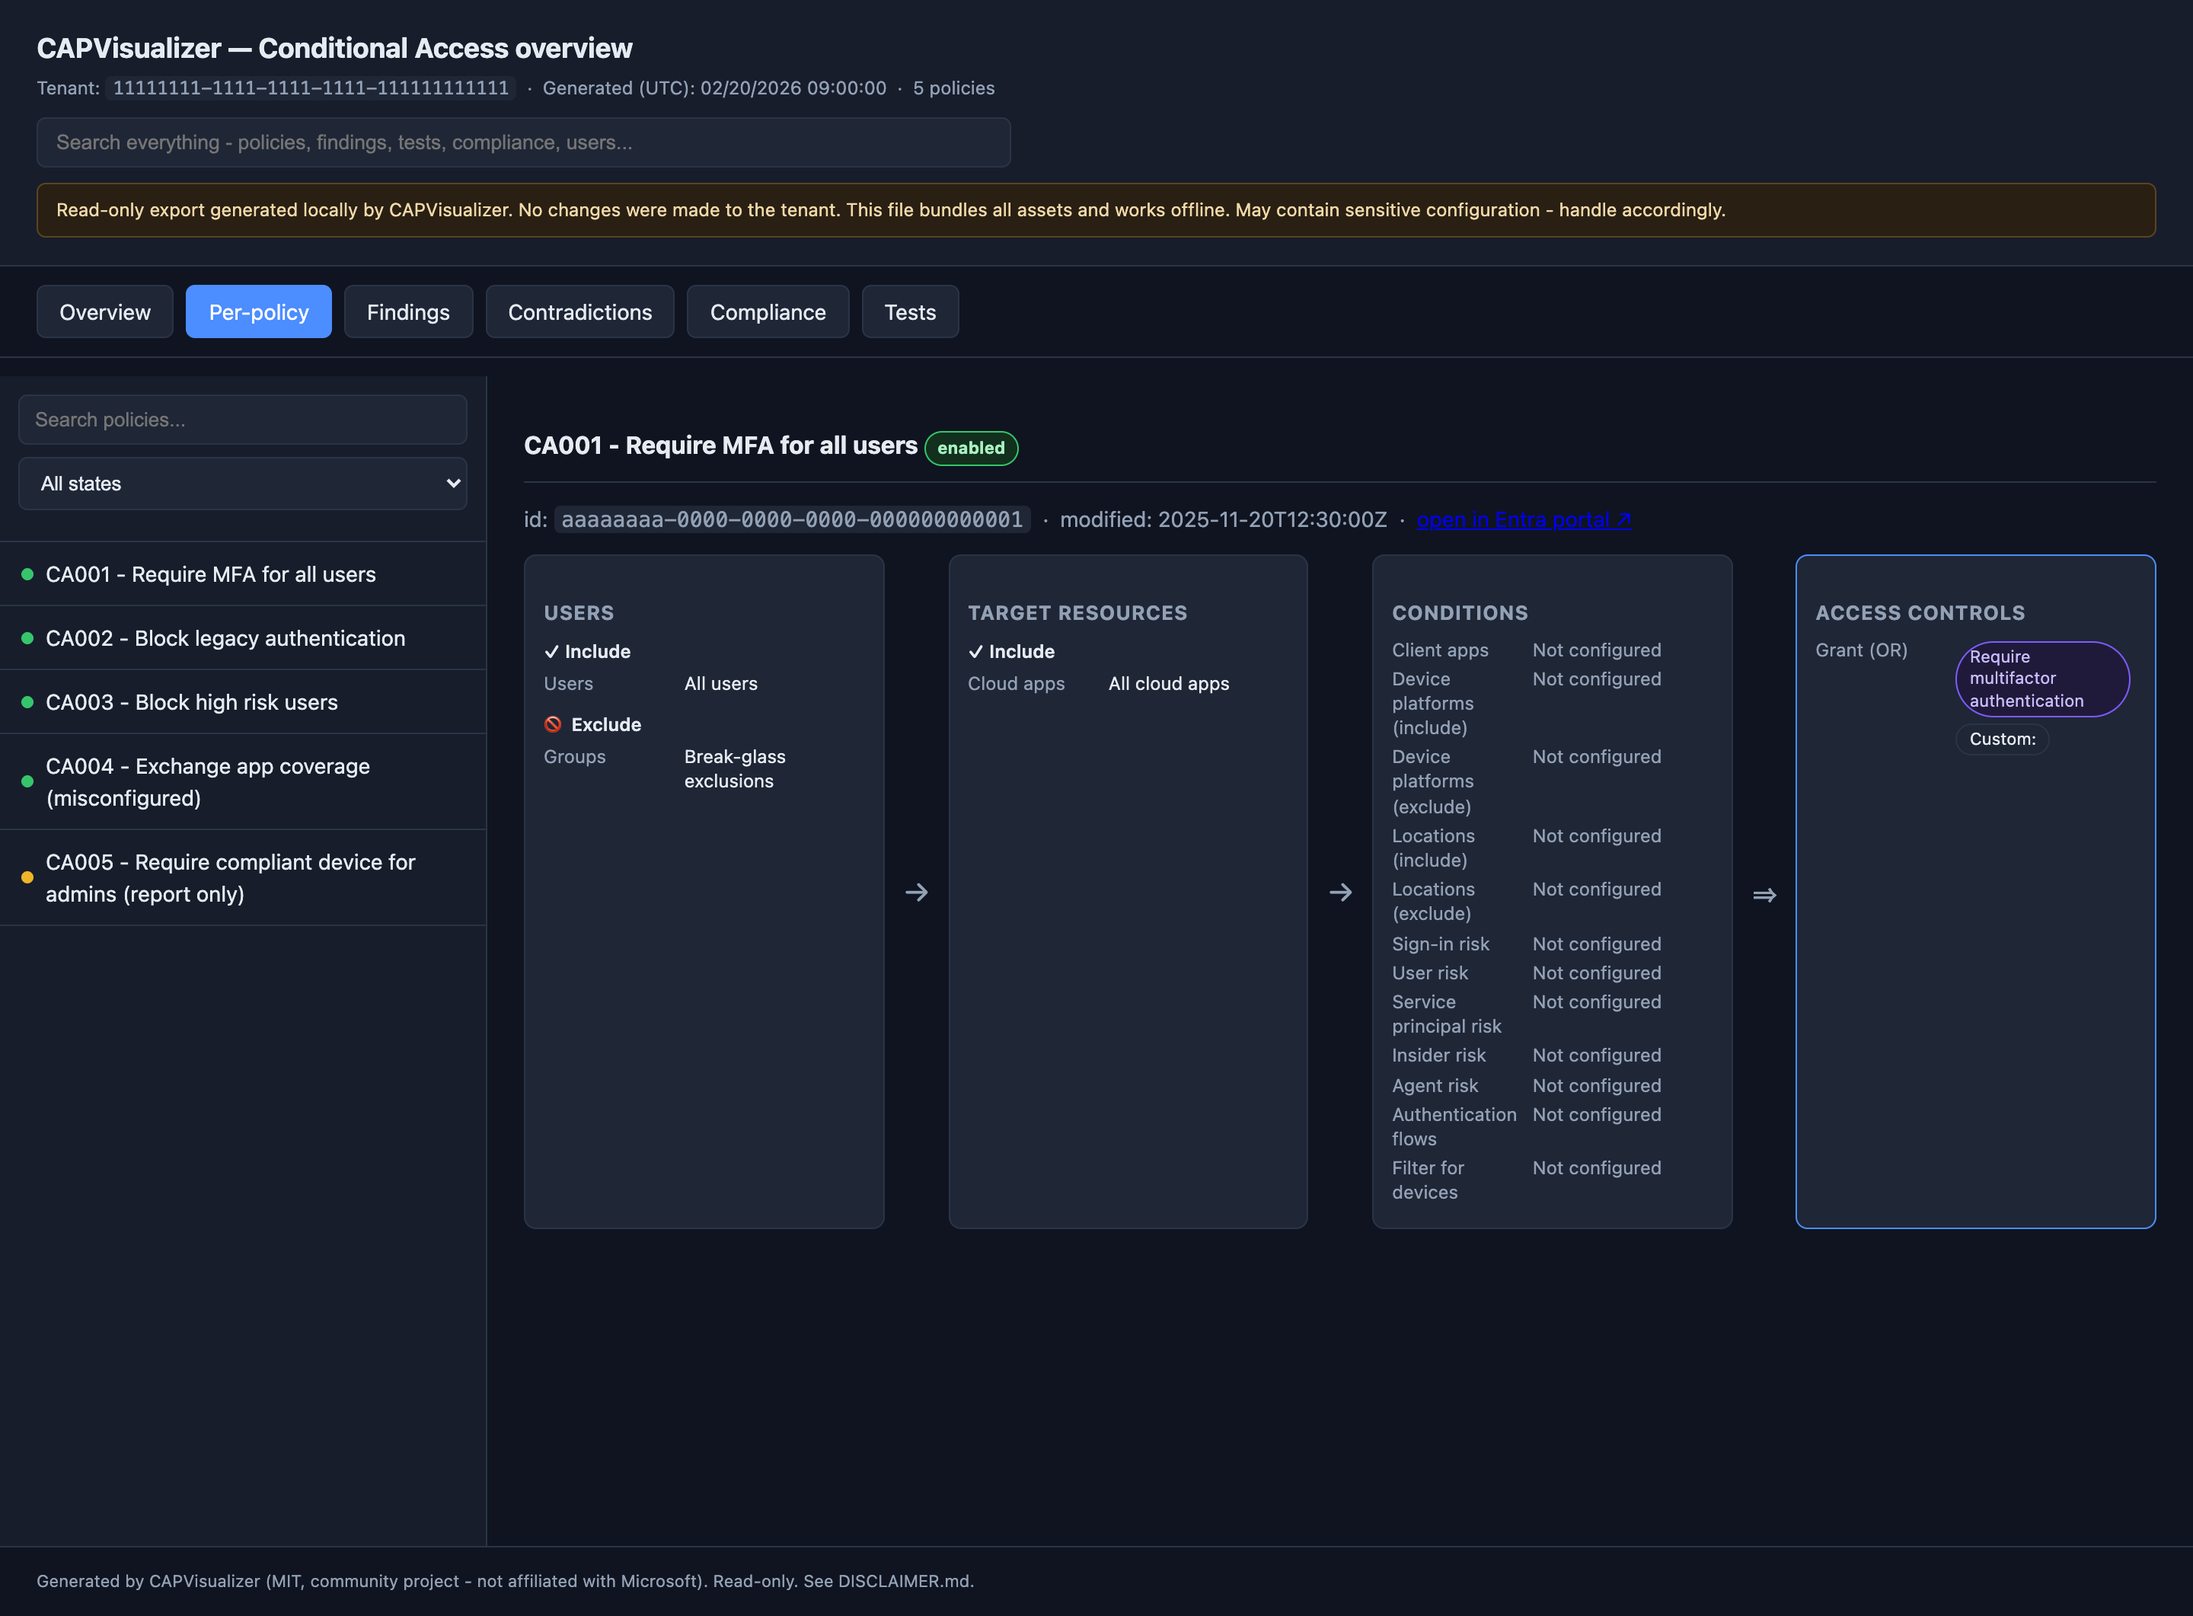
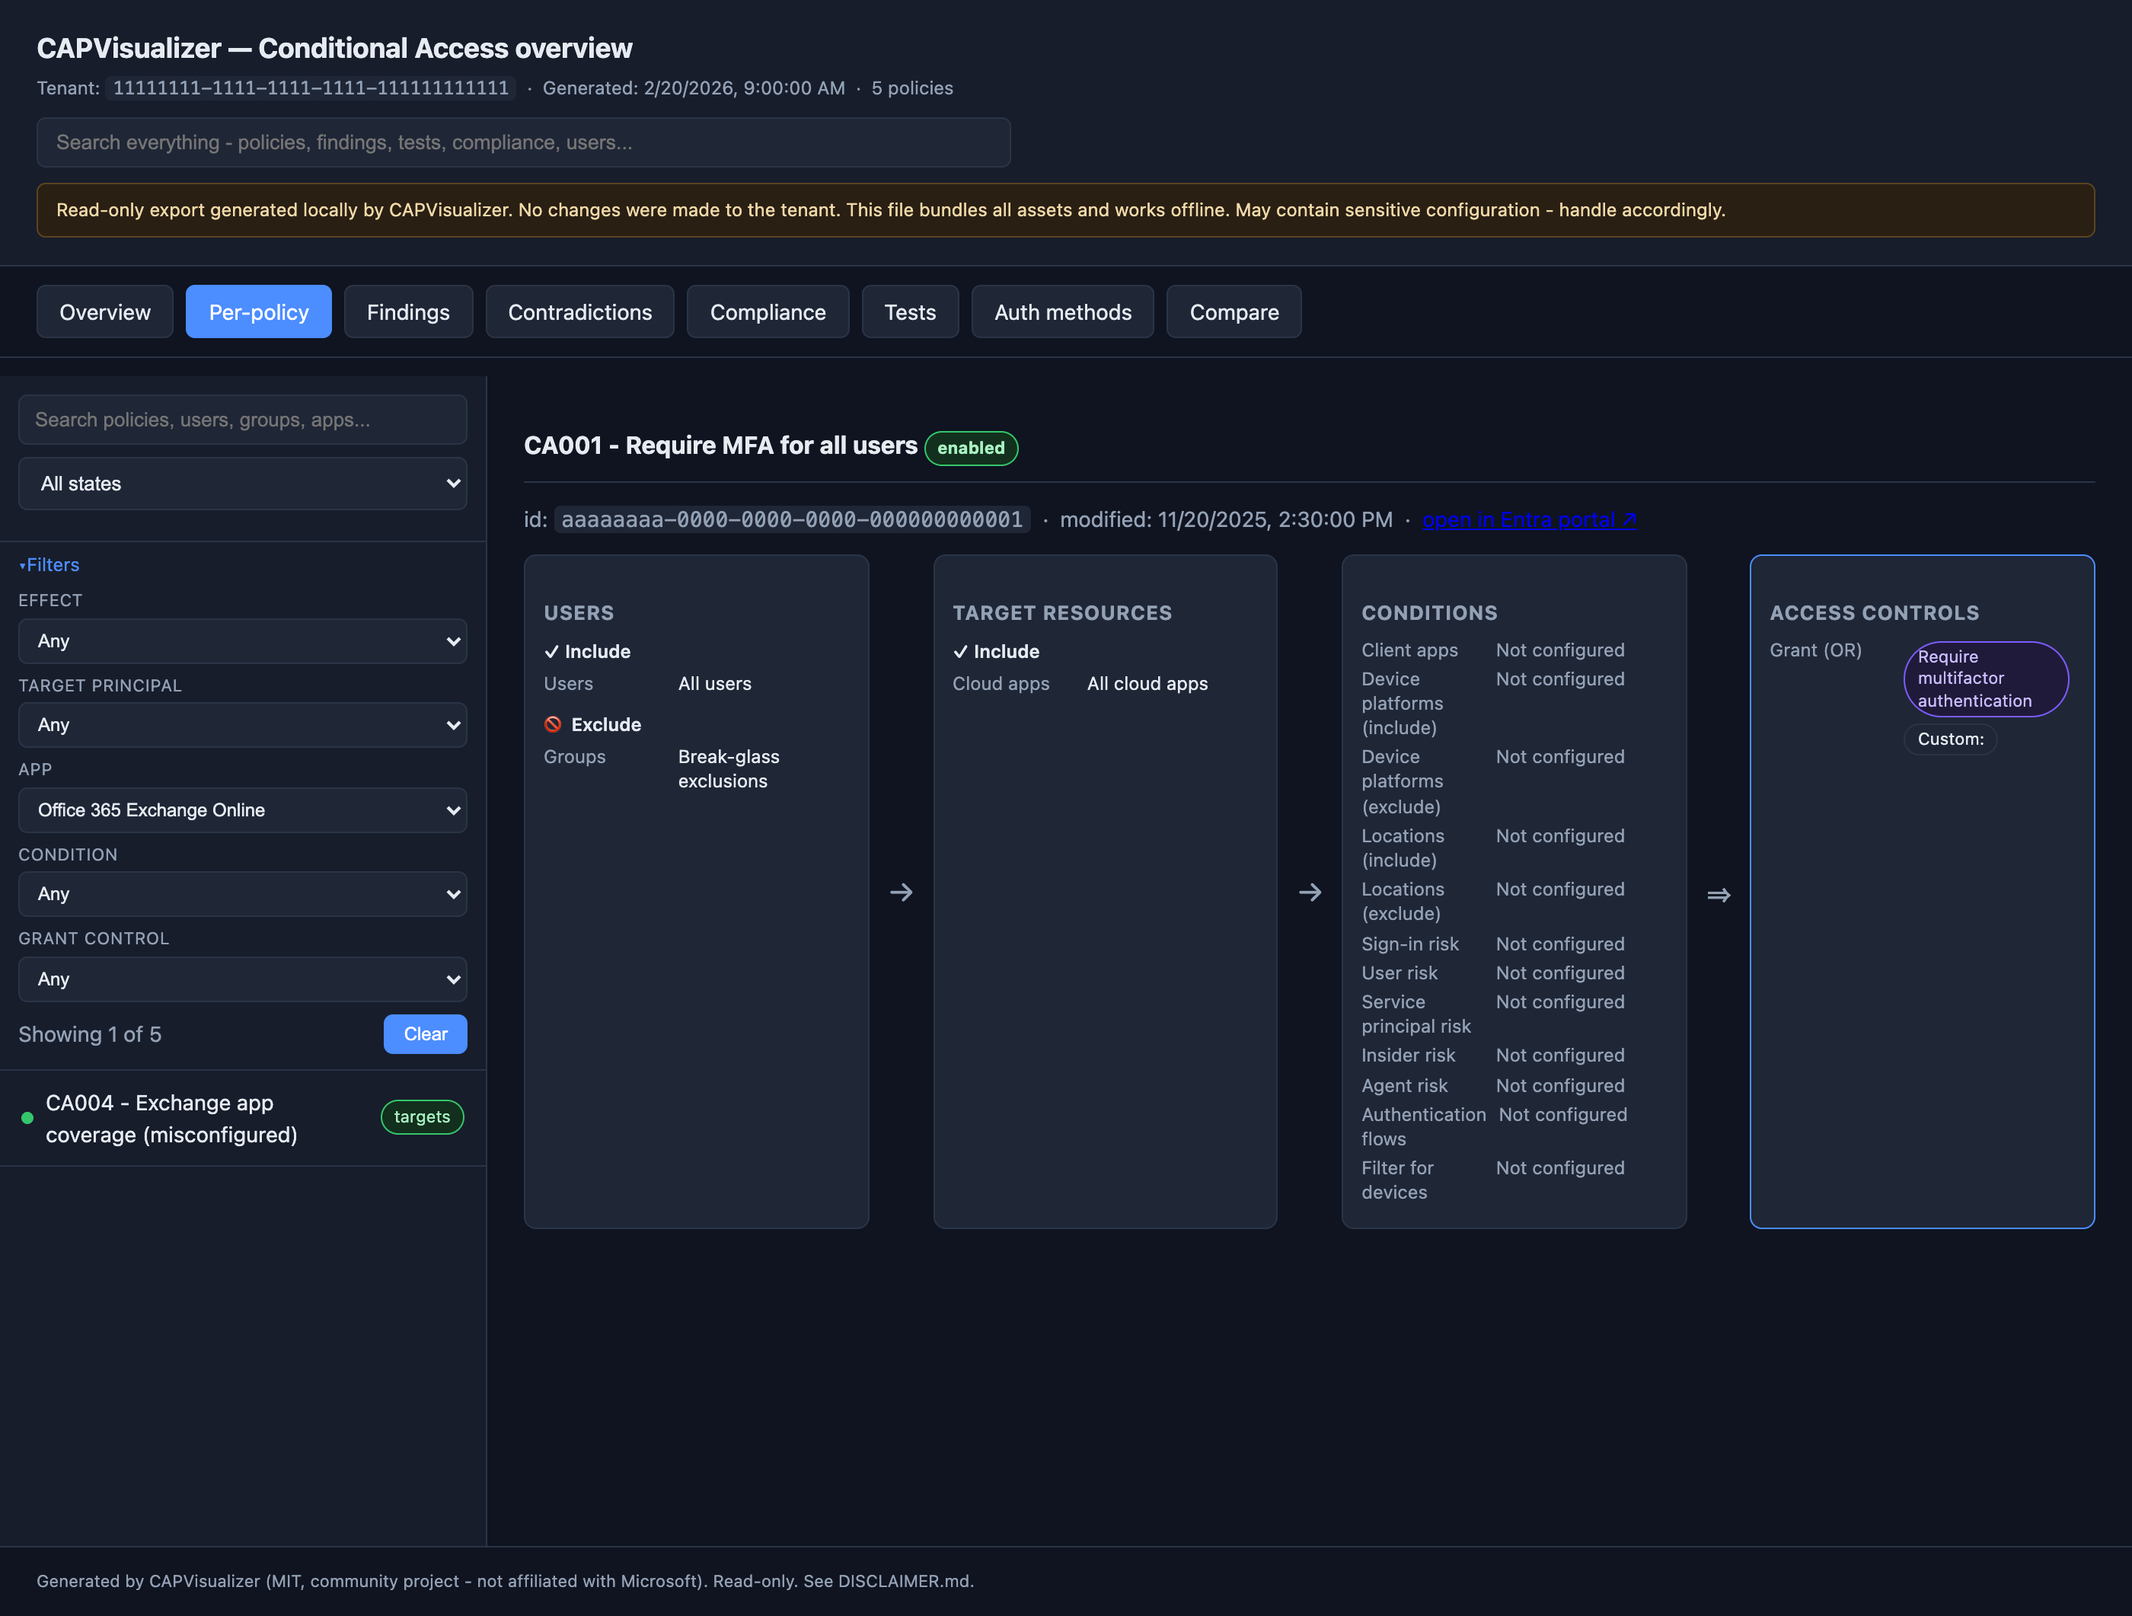
Add faceted policy filtering to the Per-policy view
Larger assessments can now slice the policy set from the Per-policy sidebar. A
collapsible filter panel adds facets on top of the existing text/state search:

- Effect (block / grant)
- Target principal (any referenced user, group, or directory role)
- App (any referenced cloud app)
- Condition present (location, device platform, risk, device filter, legacy-auth)
- Grant control (mfa, compliant device, block, authentication strength, etc)

Facet option lists are built from the loaded policies. Filters combine with AND
and show a live "Showing N of M" count with a Clear button. The text search now
also matches referenced principal and app names. Object filters match both
include and exclude, and each matching list item is badged targets or excluded.

Viewer-only change (all data already embedded per policy); fully offline, no new
scopes. Verified in a headless browser across every facet.

diff --git a/assets/app.js b/assets/app.js
@@ -5,6 +5,7 @@
   function arr(v) { return Array.isArray(v) ? v : (v === null || v === undefined || v === "" ? [] : [v]); }
   var policies = arr(DATA.policies);
   var selected = null;
+  var pfilter = { effect: "all", principal: "all", app: "all", cond: "all", grant: "all" };
   var NAMES = DATA.nameMap || {};
   // Resolve a directory GUID (or "type:guid" pair) to a friendly name when known.
   function nm(v) {
@@ -77,20 +78,134 @@
     return s;
   }
 
+  // ---- Per-policy faceted filtering ----------------------------------------
+  var PRINC_MAP = {
+    User: ["includeUsers", "excludeUsers"],
+    Group: ["includeGroups", "excludeGroups"],
+    Role: ["includeRoles", "excludeRoles"]
+  };
+  var SEP = "\u0000";
+  function princRefs(p, type, side) { return arr(p[PRINC_MAP[type][side === "inc" ? 0 : 1]]); }
+  function princAll(p, side) {
+    return princRefs(p, "User", side).concat(princRefs(p, "Group", side), princRefs(p, "Role", side));
+  }
+  function condMatch(p, c) {
+    if (c === "location") return !!(arr(p.includeLocations).length || arr(p.excludeLocations).length);
+    if (c === "platform") return !!(arr(p.includePlatforms).length || arr(p.excludePlatforms).length);
+    if (c === "risk") return !!(arr(p.signInRiskLevels).length || arr(p.userRiskLevels).length);
+    if (c === "devicefilter") return !!(p.deviceFilter && String(p.deviceFilter).length);
+    if (c === "legacy") return arr(p.clientAppTypes).some(function (x) { return /Exchange ActiveSync|Other legacy/i.test(x); });
+    return true;
+  }
+  function policyMatches(p, ft) {
+    if (pfilter.effect === "block" && !p.isBlock) return false;
+    if (pfilter.effect === "grant" && p.isBlock) return false;
+    if (pfilter.principal !== "all") {
+      var parts = pfilter.principal.split(SEP), type = parts[0], name = parts[1];
+      if (princRefs(p, type, "inc").indexOf(name) === -1 && princRefs(p, type, "exc").indexOf(name) === -1) return false;
+    }
+    if (pfilter.app !== "all") {
+      if (arr(p.includeApplications).indexOf(pfilter.app) === -1 && arr(p.excludeApplications).indexOf(pfilter.app) === -1) return false;
+    }
+    if (pfilter.cond !== "all" && !condMatch(p, pfilter.cond)) return false;
+    if (pfilter.grant !== "all") {
+      var has = arr(p.grantControlLabels).indexOf(pfilter.grant) !== -1 ||
+        (pfilter.grant === "Authentication strength" && !!p.authenticationStrength);
+      if (!has) return false;
+    }
+    if (ft) {
+      var hay = (p.displayName || "") + " " + princAll(p, "inc").join(" ") + " " + princAll(p, "exc").join(" ") +
+        " " + arr(p.includeApplications).join(" ") + " " + arr(p.excludeApplications).join(" ");
+      if (hay.toLowerCase().indexOf(ft) === -1) return false;
+    }
+    return true;
+  }
+  function matchBadge(p) {
+    var b = {};
+    if (pfilter.principal !== "all") {
+      var parts = pfilter.principal.split(SEP), type = parts[0], name = parts[1];
+      if (princRefs(p, type, "inc").indexOf(name) !== -1) b.targets = 1;
+      if (princRefs(p, type, "exc").indexOf(name) !== -1) b.excluded = 1;
+    }
+    if (pfilter.app !== "all") {
+      if (arr(p.includeApplications).indexOf(pfilter.app) !== -1) b.targets = 1;
+      if (arr(p.excludeApplications).indexOf(pfilter.app) !== -1) b.excluded = 1;
+    }
+    var out = "";
+    if (b.targets) out += ' <span class="pill ok mbadge">targets</span>';
+    if (b.excluded) out += ' <span class="pill block mbadge">excluded</span>';
+    return out;
+  }
+
+  function populateFacets() {
+    var princ = {}, apps = {}, grants = {};
+    policies.forEach(function (p) {
+      ["User", "Group", "Role"].forEach(function (type) {
+        princRefs(p, type, "inc").concat(princRefs(p, type, "exc")).forEach(function (n) {
+          if (n) princ[type + SEP + n] = { type: type, name: n };
+        });
+      });
+      arr(p.includeApplications).concat(arr(p.excludeApplications)).forEach(function (n) { if (n) apps[n] = 1; });
+      arr(p.grantControlLabels).forEach(function (l) { if (l) grants[l] = 1; });
+      if (p.authenticationStrength) grants["Authentication strength"] = 1;
+    });
+    var psel = el("fprincipal");
+    if (psel) {
+      var pkeys = Object.keys(princ).sort(function (a, b) {
+        var x = princ[a], y = princ[b];
+        if (x.type !== y.type) return x.type < y.type ? -1 : 1;
+        return x.name.toLowerCase() < y.name.toLowerCase() ? -1 : 1;
+      });
+      pkeys.forEach(function (k) {
+        var o = document.createElement("option");
+        o.value = k; o.textContent = princ[k].type + ": " + nm(princ[k].name);
+        psel.appendChild(o);
+      });
+    }
+    var asel = el("fapp");
+    if (asel) {
+      Object.keys(apps).sort(function (a, b) { return String(nm(a)).toLowerCase() < String(nm(b)).toLowerCase() ? -1 : 1; })
+        .forEach(function (n) { var o = document.createElement("option"); o.value = n; o.textContent = nm(n); asel.appendChild(o); });
+    }
+    var gsel = el("fgrant");
+    if (gsel) {
+      Object.keys(grants).sort().forEach(function (g) {
+        var o = document.createElement("option"); o.value = g; o.textContent = g; gsel.appendChild(o);
+      });
+    }
+  }
+
+  function clearFilters() {
+    pfilter = { effect: "all", principal: "all", app: "all", cond: "all", grant: "all" };
+    ["feffect", "fprincipal", "fapp", "fcond", "fgrant", "fstate"].forEach(function (id) { if (el(id)) el(id).value = "all"; });
+    if (el("q")) el("q").value = "";
+    renderList("", "all");
+  }
+
   function renderList(filterText, filterState) {
     var ul = el("plist");
     ul.innerHTML = "";
     var ft = (filterText || "").toLowerCase();
+    var shown = 0;
     policies.forEach(function (p, i) {
       if (filterState && filterState !== "all" && p.state !== filterState) return;
-      if (ft && (p.displayName || "").toLowerCase().indexOf(ft) === -1) return;
+      if (!policyMatches(p, ft)) return;
+      shown++;
       var li = document.createElement("li");
       if (selected === i) li.className = "active";
       li.innerHTML = '<span class="dot ' + stateClass(p.state) + '"></span>' +
-        '<span>' + esc(p.displayName || "(no name)") + '</span>';
+        '<span>' + esc(p.displayName || "(no name)") + '</span>' + matchBadge(p);
       li.onclick = function () { selected = i; renderList(filterText, filterState); renderDetail(p); };
       ul.appendChild(li);
     });
+    if (!shown) {
+      var empty = document.createElement("li");
+      empty.className = "muted"; empty.style.cursor = "default";
+      empty.textContent = "No policies match the filters.";
+      ul.appendChild(empty);
+    }
+    var cnt = el("filterCount");
+    if (cnt) cnt.textContent = "Showing " + shown + " of " + policies.length;
   }
 
   function controlPills(p) {
@@ -812,11 +927,17 @@
     renderCompliance();
     renderTests();
     renderAuthMethods();
+    populateFacets();
     renderList("", "all");
     if (policies.length) { selected = 0; renderDetail(policies[0]); }
 
     el("q").addEventListener("input", function () { renderList(el("q").value, el("fstate").value); });
     el("fstate").addEventListener("change", function () { renderList(el("q").value, el("fstate").value); });
+    [["feffect", "effect"], ["fprincipal", "principal"], ["fapp", "app"], ["fcond", "cond"], ["fgrant", "grant"]].forEach(function (pair) {
+      var node = el(pair[0]);
+      if (node) node.addEventListener("change", function () { pfilter[pair[1]] = node.value; renderList(el("q").value, el("fstate").value); });
+    });
+    if (el("filterClear")) el("filterClear").addEventListener("click", clearFilters);
     if (el("fq")) el("fq").addEventListener("input", function () { renderRiskFindings(el("fq").value, el("fsev").value); });
     if (el("fsev")) el("fsev").addEventListener("change", function () { renderRiskFindings(el("fq").value, el("fsev").value); });
     document.querySelectorAll(".tab").forEach(function (t) {

diff --git a/assets/template.html b/assets/template.html
@@ -45,7 +45,7 @@ __STYLES__
   <div class="wrap">
     <div class="sidebar">
       <div class="search">
-        <input id="q" type="text" placeholder="Search policies...">
+        <input id="q" type="text" placeholder="Search policies, users, groups, apps...">
         <select id="fstate">
           <option value="all">All states</option>
           <option value="enabled">Enabled</option>
@@ -53,6 +53,41 @@ __STYLES__
           <option value="disabled">Disabled</option>
         </select>
       </div>
+      <details class="filters" id="filterPanel">
+        <summary>Filters</summary>
+        <div class="filter-grid">
+          <label>Effect
+            <select id="feffect">
+              <option value="all">Any</option>
+              <option value="block">Block</option>
+              <option value="grant">Grant</option>
+            </select>
+          </label>
+          <label>Target principal
+            <select id="fprincipal"><option value="all">Any</option></select>
+          </label>
+          <label>App
+            <select id="fapp"><option value="all">Any</option></select>
+          </label>
+          <label>Condition
+            <select id="fcond">
+              <option value="all">Any</option>
+              <option value="location">Has location</option>
+              <option value="platform">Has device platform</option>
+              <option value="risk">Has risk (sign-in/user)</option>
+              <option value="devicefilter">Has device filter</option>
+              <option value="legacy">Uses legacy-auth client apps</option>
+            </select>
+          </label>
+          <label>Grant control
+            <select id="fgrant"><option value="all">Any</option></select>
+          </label>
+        </div>
+        <div class="filter-actions">
+          <span id="filterCount" class="muted"></span>
+          <button type="button" id="filterClear" class="cmp-btn">Clear</button>
+        </div>
+      </details>
       <ul class="plist" id="plist"></ul>
     </div>
     <div class="main" id="detail"></div>

diff --git a/assets/styles.css b/assets/styles.css
@@ -44,6 +44,17 @@ header .meta { color: var(--muted); font-size: 12px; }
   width: 100%; padding: 8px 10px; margin-bottom: 8px; background: var(--panel2);
   border: 1px solid var(--border); border-radius: 6px; color: var(--text); font-size: 13px;
 }
+.filters { padding: 0 12px 10px; border-bottom: 1px solid var(--border); background: var(--panel); }
+.filters > summary { cursor: pointer; color: var(--accent); font-size: 12px; padding: 6px 0; user-select: none; list-style: none; }
+.filters > summary::-webkit-details-marker { display: none; }
+.filters > summary::before { content: "\25B8 "; }
+.filters[open] > summary::before { content: "\25BE "; }
+.filter-grid { display: grid; grid-template-columns: 1fr; gap: 6px; }
+.filter-grid label { display: flex; flex-direction: column; gap: 3px; font-size: 11px; color: var(--muted); text-transform: uppercase; letter-spacing: .03em; }
+.filter-grid select { width: 100%; padding: 6px 8px; background: var(--panel2); border: 1px solid var(--border); border-radius: 6px; color: var(--text); font-size: 12px; }
+.filter-actions { display: flex; align-items: center; justify-content: space-between; gap: 8px; margin-top: 8px; }
+.filter-actions .cmp-btn { padding: 5px 12px; font-size: 12px; }
+.pill.mbadge { margin: 0 0 0 4px; }
 .plist { list-style: none; margin: 0; padding: 0; }
 .plist li {
   padding: 10px 14px; border-bottom: 1px solid var(--border); cursor: pointer; display: flex;

diff --git a/README.md b/README.md
@@ -62,7 +62,14 @@ images below are rendered from the bundled synthetic sample
 ![Overview tab](docs/images/01-overview.png)
 
 **Per-policy** - each policy as a Users -> Target resources -> Conditions ->
-Access controls flow, with every condition always shown (even when unset):
+Access controls flow, with every condition always shown (even when unset). For
+larger tenants the sidebar has a faceted filter panel: search across policy
+names and referenced users/groups/apps, and filter by state, effect
+(block/grant), a specific target principal (user, group, or directory role), a
+specific app, a condition type (location, device platform, risk, device filter,
+legacy-auth), or a grant control. Object filters match both include and exclude
+and badge each result (`targets` / `excluded`), with a live "Showing N of M"
+count:
 
 ![Per-policy tab](docs/images/02-per-policy.png)
 
